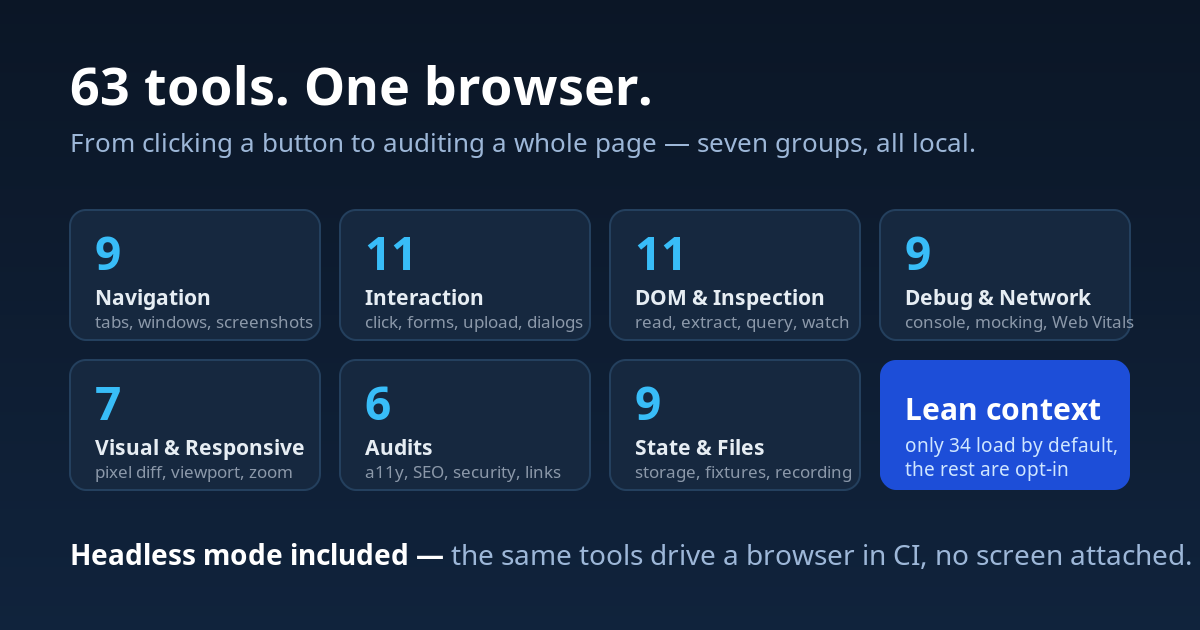
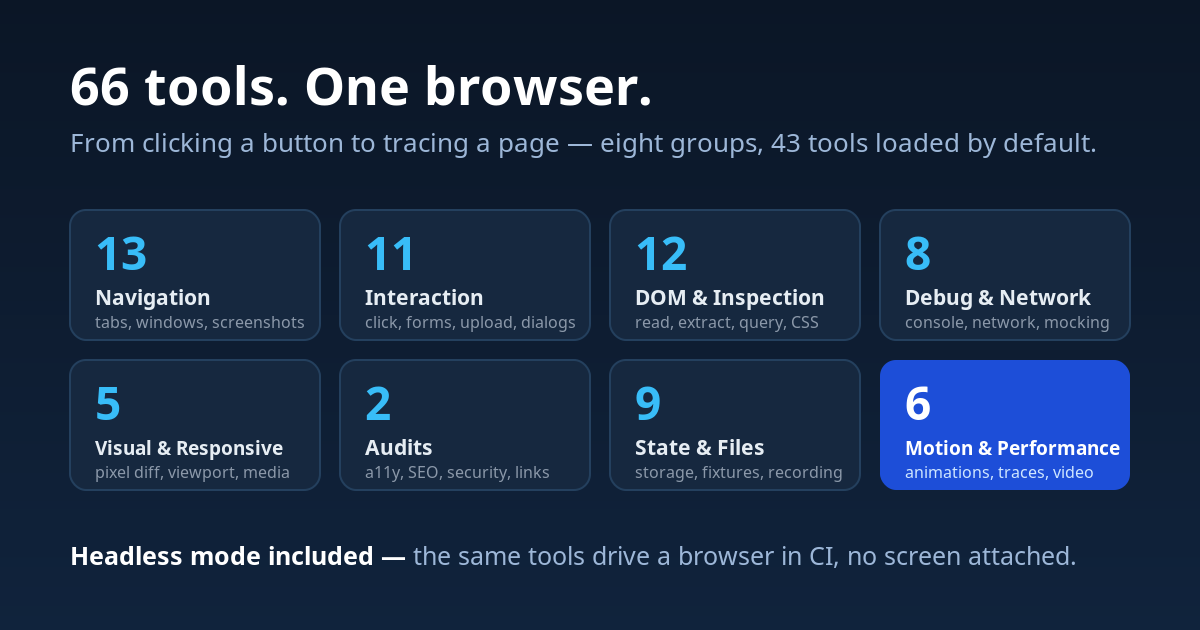
docs(readme): card4 redrawn for 66 tools in eight groups
DOM & Inspection counts 12: extract_table was in no group of TOOLS.md,
so the groups summed to 65. README, site and TOOLS.md follow.

diff --git a/docs/index.html b/docs/index.html
@@ -264,7 +264,7 @@ footer .container { display: flex; flex-wrap: wrap; gap: 0.5rem 1.5rem; justify-
                 <tbody>
                     <tr><td>Core &amp; Navigation</td><td>13</td><td>tabs, windows, <code>navigate</code>, <code>screenshot</code>, <code>tile_windows</code></td></tr>
                     <tr><td>Interaction</td><td>11</td><td><code>click</code>, <code>fill_form</code>, <code>upload_file</code>, dialogs, clipboard</td></tr>
-                    <tr><td>DOM &amp; Inspection</td><td>11</td><td><code>read_page</code>, <code>extract</code>, <code>query_dom</code>, <code>get_css_styles</code>, <code>watch_dom</code></td></tr>
+                    <tr><td>DOM &amp; Inspection</td><td>12</td><td><code>read_page</code>, <code>extract</code>, <code>extract_table</code>, <code>query_dom</code>, <code>get_css_styles</code>, <code>watch_dom</code></td></tr>
                     <tr><td>Debugging &amp; Network</td><td>8</td><td><code>execute_js</code>, console, network log, mocking, <code>track_events</code></td></tr>
                     <tr><td>Visual &amp; Responsive</td><td>5</td><td><code>screenshot_diff</code>, viewport and zoom, media emulation</td></tr>
                     <tr><td>Audits</td><td>2</td><td><code>audit</code> (a11y, keyboard, SEO, security, links, vitals, css, resources, cache in one call), <code>cookie_audit</code></td></tr>

diff --git a/README.md b/README.md
@@ -169,13 +169,13 @@ default; the other 23 sit in seven optional caps that the agent switches on
 mid-session with `get_status({enable: ["visual"]})`, with no restart
 (`--caps` still sets them at startup).
 
-![The tools by group, from clicking a button to auditing a whole page](assets/readme/card4-toolbox.png)
+![66 tools in eight groups, from clicking a button to tracing a page](assets/readme/card4-toolbox.png)
 
 | Group | N | What's in it |
 |---|---|---|
 | Core & Navigation | 13 | tabs, windows, `navigate`, `screenshot`, `tile_windows` |
 | Interaction | 11 | `click`, `fill_form`, `upload_file`, dialogs, clipboard |
-| DOM & Inspection | 11 | `read_page`, `extract`, `query_dom`, `get_css_styles`, `watch_dom` |
+| DOM & Inspection | 12 | `read_page`, `extract`, `extract_table`, `query_dom`, `get_css_styles`, `watch_dom` |
 | Debugging & Network | 8 | `execute_js`, console, network log, mocking, `track_events` |
 | Visual & Responsive | 5 | `screenshot_diff`, viewport and zoom, media emulation |
 | Audits | 2 | `audit` (a11y, keyboard, SEO, security, links, vitals, css, resources, cache in one call), `cookie_audit` |

diff --git a/docs/plans/PIANO-2026-10-01-motion-e-prestazioni.md b/docs/plans/PIANO-2026-10-01-motion-e-prestazioni.md
@@ -62,4 +62,4 @@ Incidente del 01/10, 17:42-17:48: lo script di prova caricava l'estensione del r
 - `hover` sintetico non accende il `:hover` del CSS: ora c'è `hover({trusted})`, ed è il default nelle finestre di `animations` e `frames`;
 - l'input fidato leggeva le coordinate a metà di uno scorrimento morbido: ora `behavior: 'instant'`.
 
-**Da fare fuori dal codice:** la card `assets/readme/card4-toolbox.png` mostra ancora il vecchio conteggio nell'immagine.
+**Card del README:** `card4-toolbox` ridisegnata il 01/10 alle 20:30 (66 tool, otto gruppi; DOM a 12 con `extract_table`, che TOOLS.md non elencava).

diff --git a/docs/TOOLS.md b/docs/TOOLS.md
@@ -56,9 +56,9 @@ only, debugging bar for the moment of the move).
 `fill_form` fills N fields and submits in one call — 3 calls instead of 9 on the
 benchmark form, at the same byte count.
 
-## DOM & Inspection (11)
+## DOM & Inspection (12)
 
-`read_page`, `extract`, `get_page_info`, `query_dom`, `get_css_styles`, `modify_dom`, `find_text`,
+`read_page`, `extract`, `extract_table`, `get_page_info`, `query_dom`, `get_css_styles`, `modify_dom`, `find_text`,
 `get_interactives`, `inject_css`, `watch_dom`, `get_page_info` (with `dev`: dev server and
 error overlay when one is open),
 `measure_spacing`.
